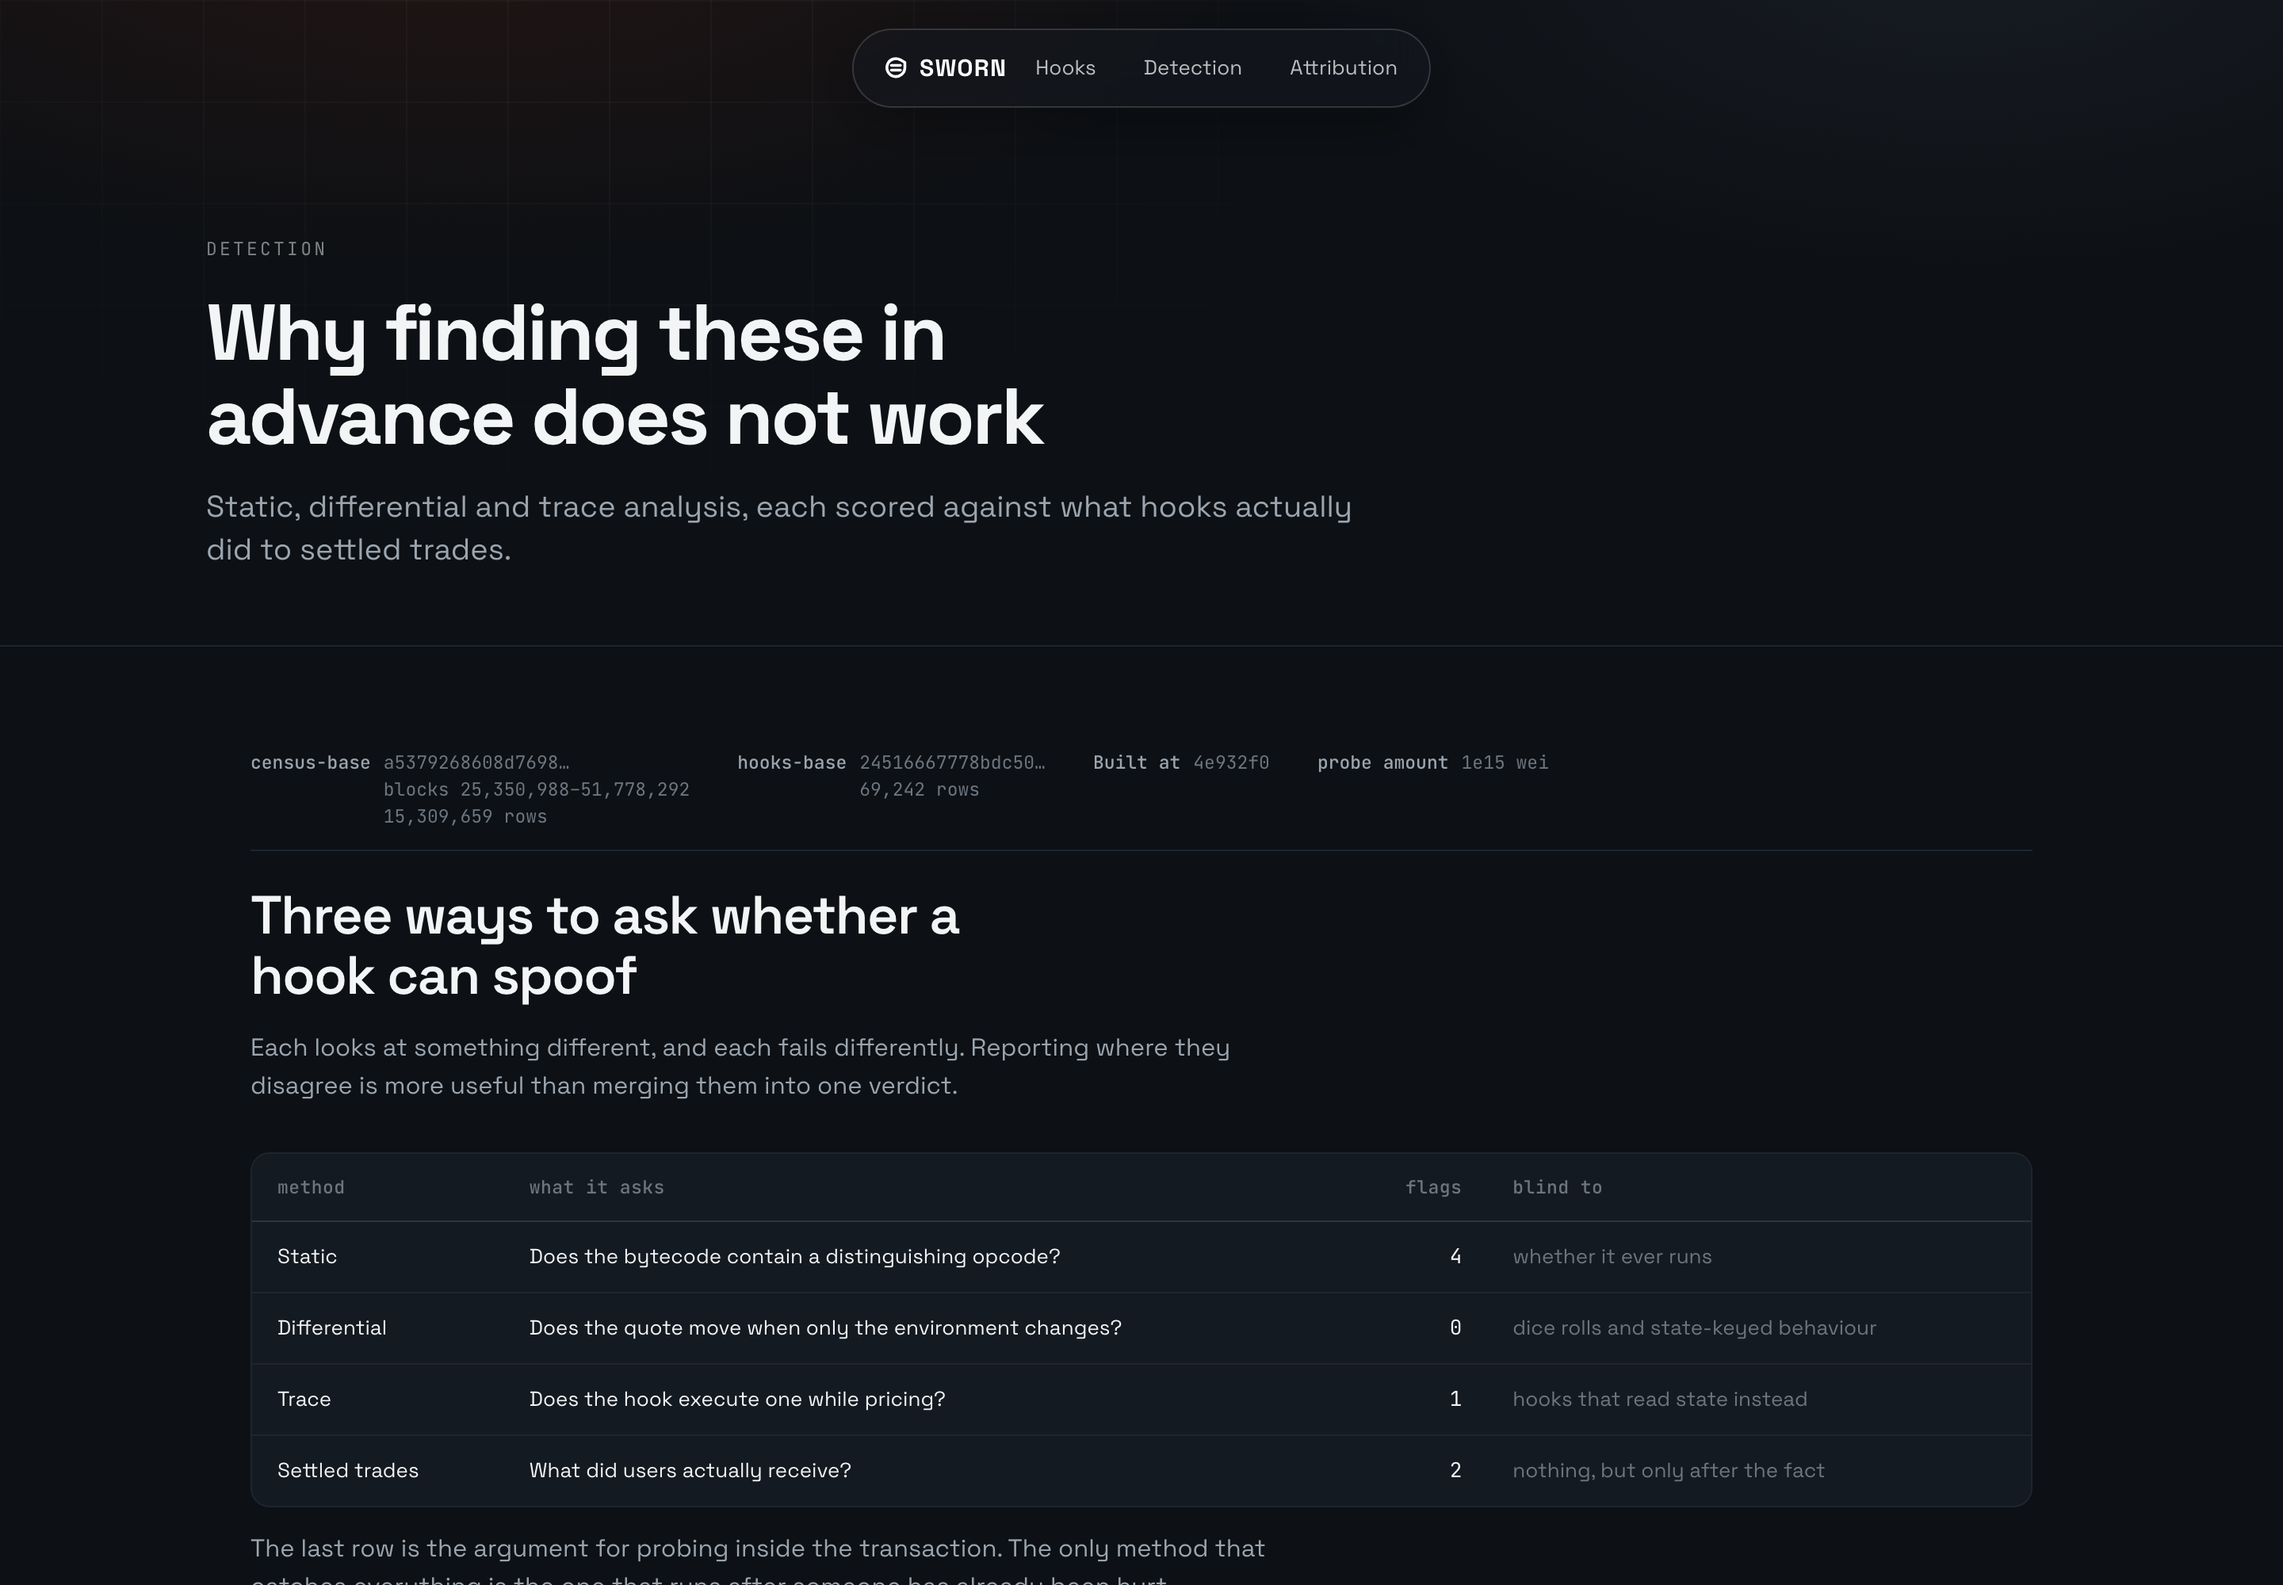
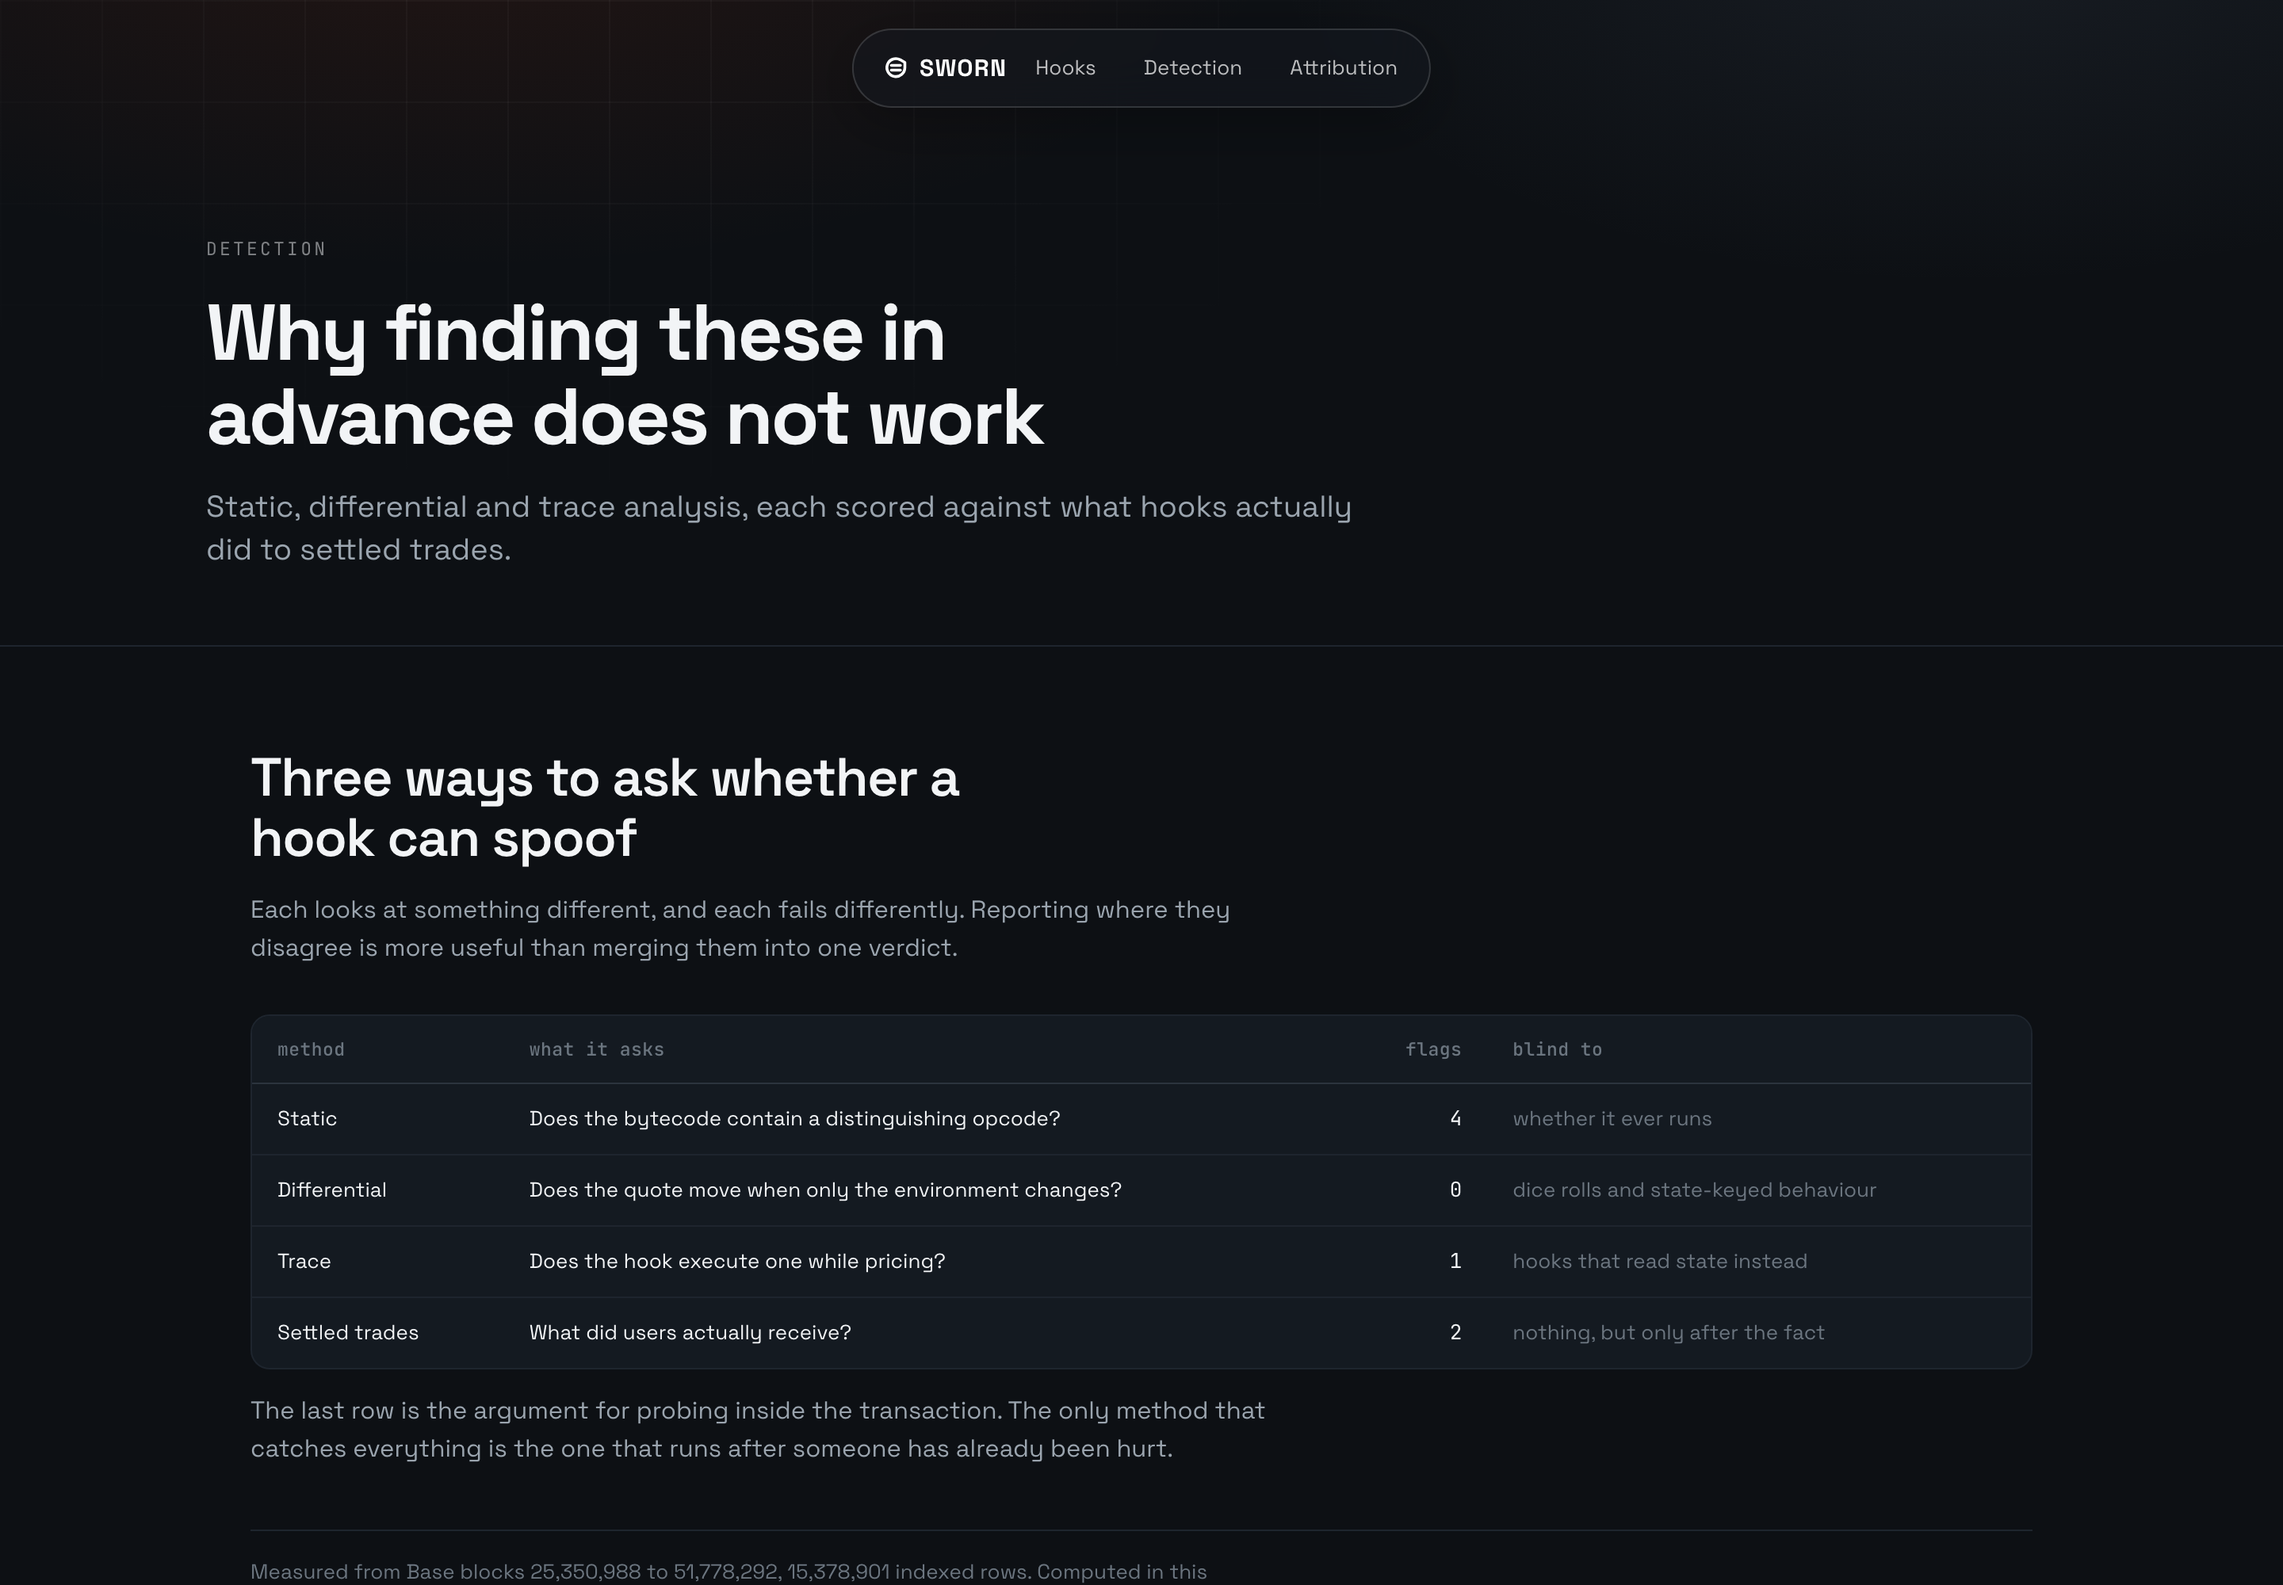
fold provenance hashes into a plain-english source line

diff --git a/app/src/components/Rail.tsx b/app/src/components/Rail.tsx
@@ -1,15 +1,19 @@
 import type { Meta } from '@/lib/results';
 
 /**
- * The provenance rail.
+ * Where the numbers above came from, in a sentence.
  *
- * Every figure on this page came from a pipeline reading a hashed snapshot. Putting that
- * origin beside the numbers, rather than in a footnote, is the point: a reader can fetch
- * the same snapshot and re-derive the figure instead of taking it on trust.
+ * Every figure on this site is computed by a pipeline in the repo from a snapshot with a
+ * recorded sha256, and saying so is the point of the whole project. Saying so by printing
+ * four hashes, two block ranges and a git sha above the content was not: a reader met a
+ * wall of hex before they met the argument.
+ *
+ * So the claim is now one plain line underneath the section, and the hashes anyone would
+ * actually verify against live behind a disclosure.
  */
-/** Snapshots shown before the rail summarises the rest. Beyond this the rail grows taller
- *  than the figures it annotates, which inverts the hierarchy it exists to support. */
-const SHOWN = 2;
+function group(n: number): string {
+  return n.toLocaleString('en-US');
+}
 
 export function Rail({
   meta,
@@ -18,77 +22,49 @@ export function Rail({
   meta: Meta | null;
   extra?: [string, string][] | undefined;
 }) {
-  // A band with no snapshot is not necessarily a band with no provenance: the lead figure
-  // comes from a contract test, which has a source worth naming. Discarding `extra` here
-  // made a sourced panel read as an empty one.
   if (!meta) {
-    return (
-      <dl className="rail">
-        {extra?.length ? (
-          extra.map(([k, v]) => (
-            <div key={k}>
-              <dt>{k}</dt>
-              <dd>{v}</dd>
-            </div>
-          ))
-        ) : (
-          <div>
-            <dt>Source</dt>
-            <dd>not yet computed</dd>
-          </div>
-        )}
-      </dl>
-    );
+    if (!extra?.length) return null;
+    return <p className="source">{extra.map(([k, v]) => `${k}: ${v}`).join(' · ')}</p>;
   }
 
+  const snaps = meta.snapshots ?? [];
+  const ranged = snaps.filter((s) => s.block_from && s.block_to);
+  const from = ranged.length ? Math.min(...ranged.map((s) => s.block_from as number)) : null;
+  const to = ranged.length ? Math.max(...ranged.map((s) => s.block_to as number)) : null;
+  const rows = snaps.reduce((n, s) => n + (s.rows ?? 0), 0);
+
   return (
-    <dl className="rail">
-      {meta.snapshots.slice(0, SHOWN).map((s) => (
-        <div key={s.name}>
-          <dt>{s.name}</dt>
-          <dd>
-            <span className="hash">{s.sha256.slice(0, 16)}…</span>
-            {s.block_from !== undefined && s.block_to !== undefined && s.block_to > 0 ? (
-              <>
-                <br />
-                <span className="range">
-                  blocks {s.block_from.toLocaleString('en-US')}&ndash;
-                  {s.block_to.toLocaleString('en-US')}
-                </span>
-              </>
-            ) : null}
-            {s.rows ? (
-              <>
-                <br />
-                {s.rows.toLocaleString('en-US')} rows
-              </>
-            ) : null}
-          </dd>
-        </div>
-      ))}
-      {meta.snapshots.length > SHOWN ? (
+    <details className="source">
+      <summary>
+        Measured from
+        {from && to ? ` Base blocks ${group(from)} to ${group(to)}` : ' a pinned snapshot'}
+        {rows ? `, ${group(rows)} indexed rows` : ''}. Computed in this repo, from data you can
+        re-derive.
+      </summary>
+      <dl>
+        {snaps.map((s) => (
+          <div key={s.name}>
+            <dt>{s.name}</dt>
+            <dd>
+              <span className="hash">{s.sha256.slice(0, 16)}…</span>
+              {s.rows ? ` · ${group(s.rows)} rows` : ''}
+              {s.block_from && s.block_to
+                ? ` · blocks ${group(s.block_from)}–${group(s.block_to)}`
+                : ''}
+            </dd>
+          </div>
+        ))}
         <div>
-          <dt>and {meta.snapshots.length - SHOWN} more</dt>
-          {/* A comma list of names, not a hash: `.hash` is nowrap so a hex string stays
-              intact, and reusing it here pushed the page 16px wide at 375px. */}
-          <dd className="more">
-            {meta.snapshots
-              .slice(SHOWN)
-              .map((s) => s.name)
-              .join(', ')}
-          </dd>
+          <dt>built at</dt>
+          <dd>{meta.script_commit}</dd>
         </div>
-      ) : null}
-      <div>
-        <dt>Built at</dt>
-        <dd>{meta.script_commit}</dd>
-      </div>
-      {extra?.map(([k, v]) => (
-        <div key={k}>
-          <dt>{k}</dt>
-          <dd>{v}</dd>
-        </div>
-      ))}
-    </dl>
+        {extra?.map(([k, v]) => (
+          <div key={k}>
+            <dt>{k}</dt>
+            <dd>{v}</dd>
+          </div>
+        ))}
+      </dl>
+    </details>
   );
 }

diff --git a/app/src/app/globals.css b/app/src/app/globals.css
@@ -283,53 +283,65 @@ main:has(.pagehead) .sheet {
   color: var(--ink-2);
 }
 
-/* The receipt. A horizontal strip under the heading rather than a margin column: a
-   rail tall enough to out-measure its own section was inverting the hierarchy it
-   existed to support, and leaving a column of dead space when it did not. */
-.rail {
-  display: flex;
-  flex-wrap: wrap;
-  gap: 0 30px;
-  margin: 0 0 22px;
-  padding: 0 0 12px;
-  border-bottom: 1px solid var(--rule);
-  font-family: var(--mono);
-  font-size: var(--t-xs);
-  line-height: 1.5;
+/* The provenance line. Quiet, after the content, and closed by default: the claim that
+   every number is re-derivable matters, but it is a citation, not a headline. */
+.source {
+  margin: 38px 0 0;
+  padding-top: 16px;
+  border-top: 1px solid var(--rule);
+  font-size: var(--t-s);
   color: var(--faint);
 }
 
-.rail > div {
+.source summary {
+  cursor: pointer;
+  max-width: 76ch;
+  list-style: none;
+}
+
+.source summary::-webkit-details-marker {
+  display: none;
+}
+
+.source summary::after {
+  content: ' — show the hashes';
+  font-family: var(--mono);
+  font-size: var(--t-xs);
+  color: var(--rule-hard);
+}
+
+.source[open] summary::after {
+  content: ' — hide';
+}
+
+.source summary:hover,
+.source summary:focus-visible {
+  color: var(--ink-2);
+}
+
+.source dl {
+  display: grid;
+  grid-template-columns: repeat(auto-fit, minmax(280px, 1fr));
+  gap: 10px 32px;
+  margin: 18px 0 0;
+  font-family: var(--mono);
+  font-size: var(--t-xs);
+}
+
+.source dl > div {
   display: flex;
-  align-items: baseline;
-  gap: 8px;
-  /* A flex item will not shrink below its content's min-content width without this, and
-     the snapshot list ("census-bnb, census-arbitrum, census-mainnet") then pushed the
-     whole page 16px wide at 375px. */
+  gap: 10px;
   min-width: 0;
 }
 
-.rail dt {
-  font-weight: 500;
+.source dt {
   color: var(--ink-2);
   white-space: nowrap;
 }
 
-.rail dd {
+.source dd {
   margin: 0;
   min-width: 0;
-  overflow-wrap: anywhere;
-}
-
-/* A hash and a block range are single tokens: breaking them mid-string makes them
-   unreadable, so they stay whole and the rail wraps around them instead. */
-.rail .hash,
-.rail .range {
-  white-space: nowrap;
-}
-
-/* A list of snapshot names is prose, and wraps like prose. */
-.rail .more {
   overflow-wrap: anywhere;
 }
 

diff --git a/app/src/components/Band.tsx b/app/src/components/Band.tsx
@@ -12,8 +12,10 @@ export function Band({
 }) {
   return (
     <section className="band">
-      <Rail meta={meta} extra={extra} />
+      {/* Content first. The provenance line is a citation, and a citation goes after the
+          thing it supports. */}
       <div className="body">{children}</div>
+      <Rail meta={meta} extra={extra} />
     </section>
   );
 }
